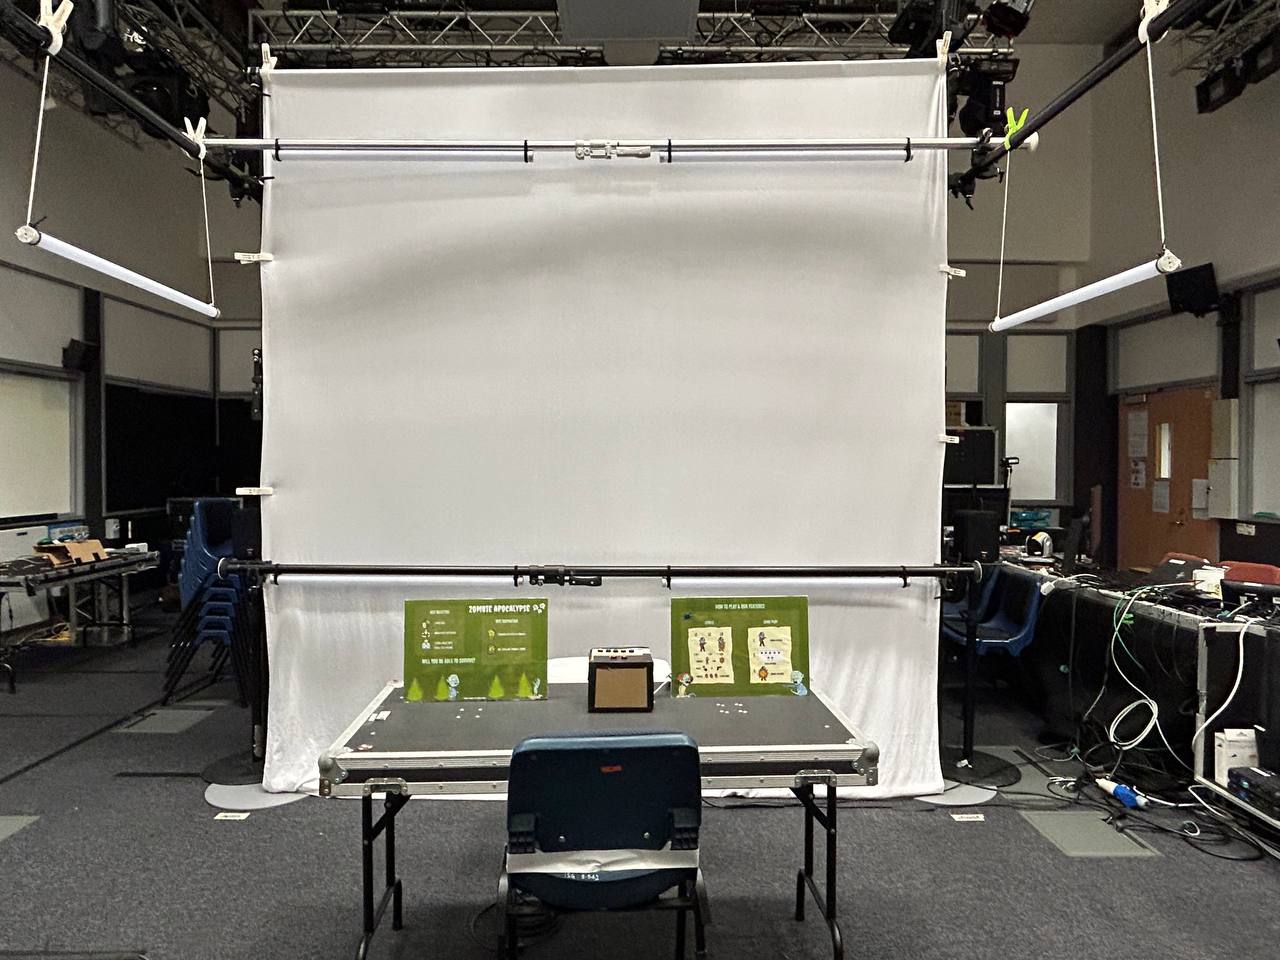
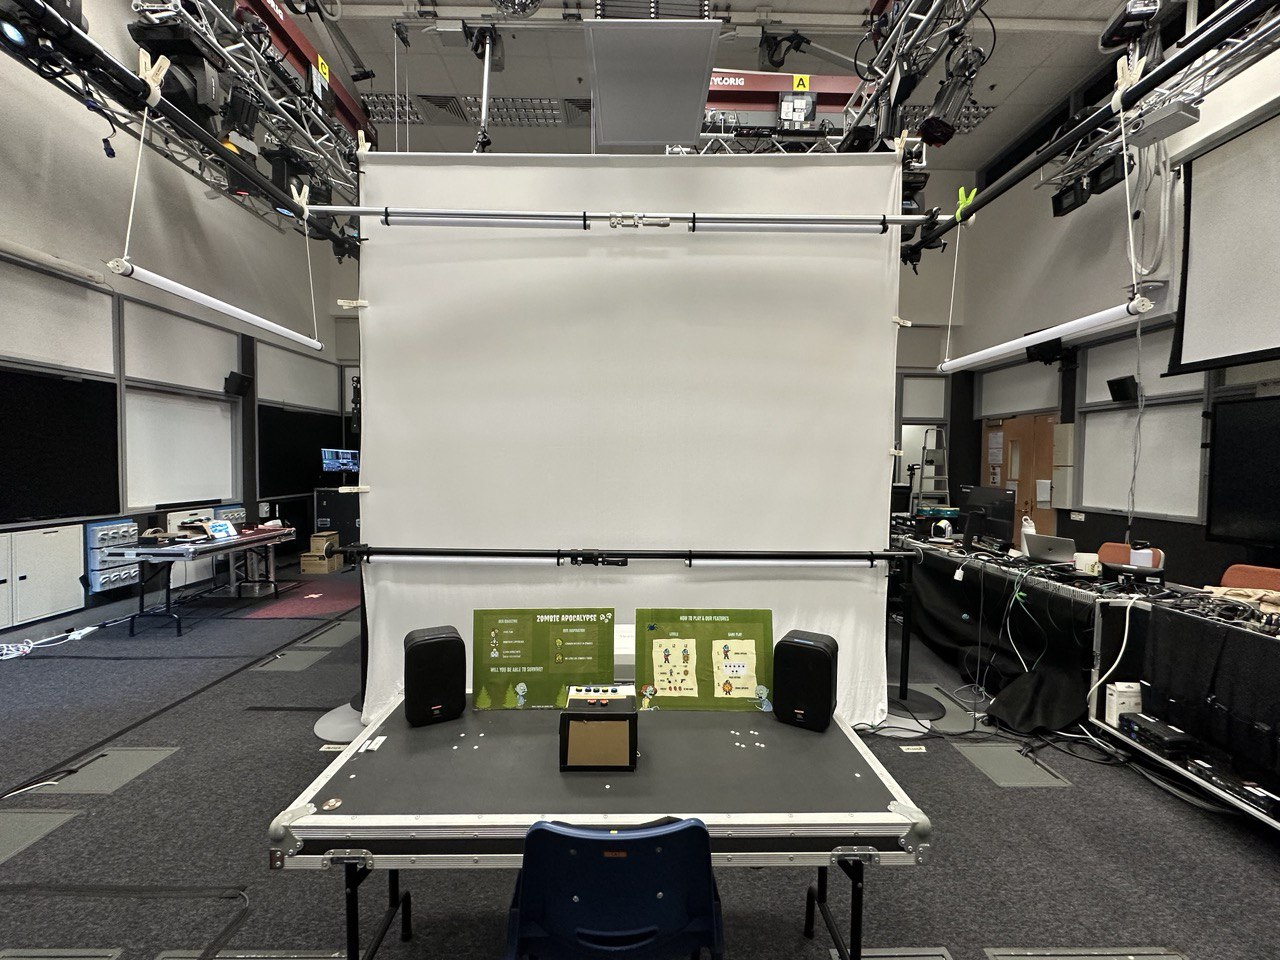
updates

diff --git a/README.md b/README.md
@@ -5,7 +5,7 @@
 Welcome to Zombieverse! (UPDATE!!!!)
 
 # Storyboard
-![Alt text](images/storyboard.jpeg)
+(UPDATE!!!!)
 
 # System Diagrams
  ## Control Diagram
@@ -36,8 +36,10 @@ Welcome to Zombieverse! (UPDATE!!!!)
 ![Alt text](images/3.5mm%20Cable%20made%20finish%20for%20315.jpg)
 3.5mm cable which will be connected to the amplifier.
 
-![Alt text](images/Amplifier%20Setup%20for%20315.jpg)
-Amplifier setup at the back of the screen and connected to the 2 passive speakers.
+![Alt text](<images/photo_2023-08-14 18.18.14.jpeg>)
+Amplifier front of the screen and connected to the 2 passive speakers.
+![Alt text](<images/photo_2023-08-14 18.18.21.jpeg>)
+Passive speakers on the table.
 
 # Lighting Setup
 ![Alt text](images/lighting%20setup.jpeg)
